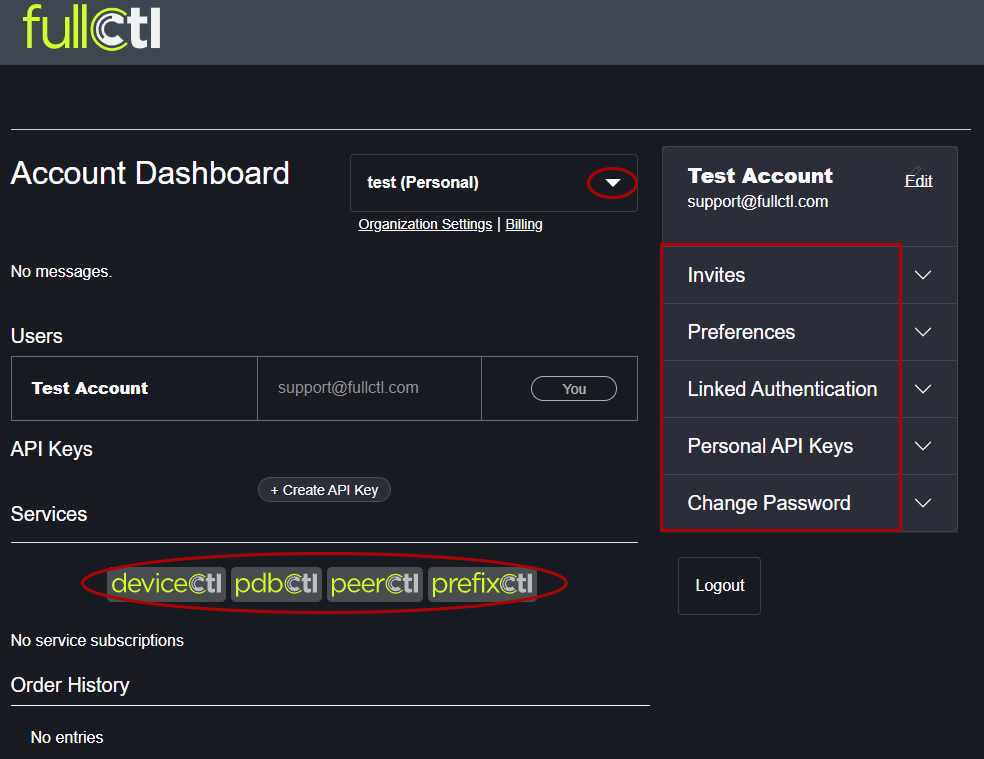
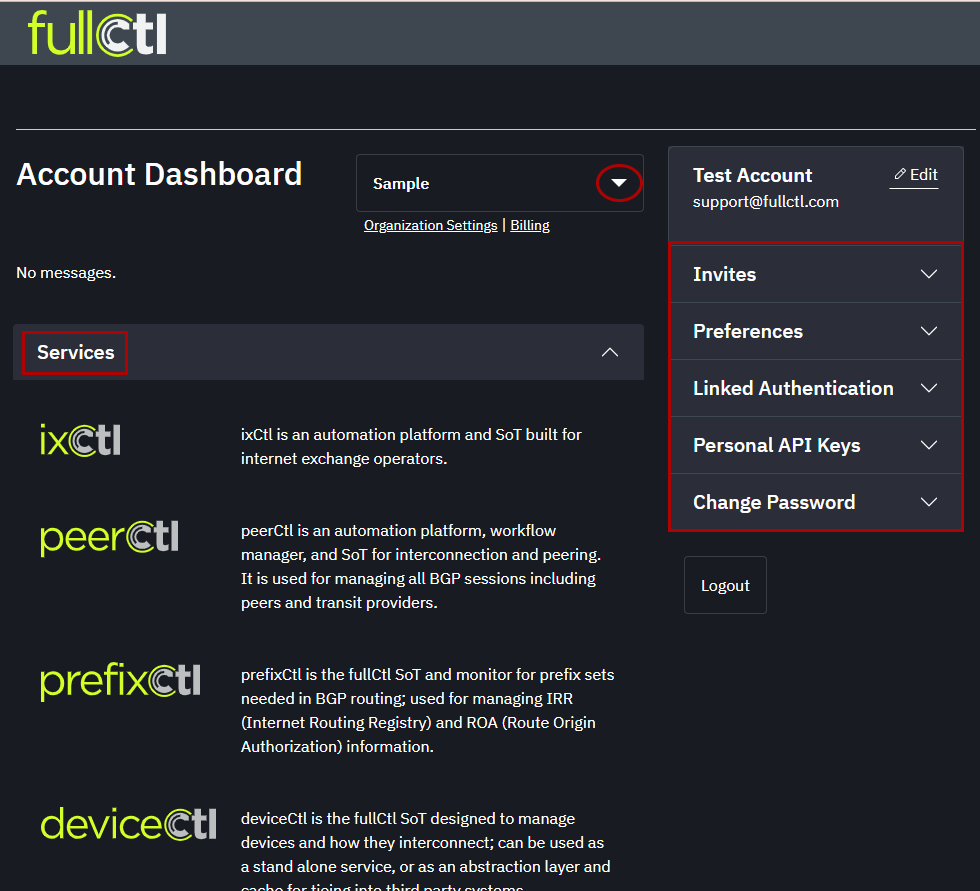
Sunbuch postlaunch updates (#41)
* Update index.md

* Update Sign-up-for-fullctl.md

* Add files via upload

* Delete accept.png

* Update Sign-up-for-fullctl.md

* Delete addorg.png

* Delete apikeypopup.png

* Delete authenticate.png

* Delete invite.png

* Delete linked.png

* Delete login2.png

* Delete neworg.png

* Delete userpermissions.png

* Delete useradded.png

* Delete roles.png

* Delete pending.png

* Delete orgapikey.png

* Update Add-Organization.md

* Update Add-Organization.md

* Update Add-Users.md

* Update LogIn-Update-Settings.md

* Update LogIn-Update-Settings.md

* Update LogIn-Update-Settings.md

* Update LogIn-Update-Settings.md

* Update Sign-up-for-fullctl.md

* Update User-Privileges.md

* Update index.md

* Delete userpermissions.PNG

* Delete addorg.PNG

* Delete accept.PNG

* Delete apikeypopup.PNG

* Delete authenticate.PNG

* Delete createorgmodal.PNG

* Delete orgapikey.PNG

* Delete pending.PNG

* Delete neworg.PNG

* Delete useradded.PNG

* Delete invite.PNG

* Delete login2.PNG

* Delete roles.PNG

* Delete linked.PNG

* Add files via upload

* Update Add-Organization.md

* Update Add-Users.md

* Update LogIn-Update-Settings.md

* Update Sign-up-for-fullctl.md

* Update User-Privileges.md

* Update index.md

* Update Components.md

* Update Components.md

diff --git a/docs/Components.md b/docs/Components.md
@@ -8,15 +8,24 @@ aaaCtl provides centralized authentication, authorization and accounting for Ful
 
 aclCtl is the FullCtl source of truth for access control list (ACL) and network policy information. It is used for managing traffic filtering and device security. aclCtl manages two components; both ACL structure (traffic filtering rules) and the application of those filters. It is expected that ACL structure will change infrequently and that the application of those policies will change more often. For example, if a new service is added to a PoP (Point of Presence) the ACL itself will not change, rather that new service will be added to comply with existing rule-sets. This allows for the automation of service turn up without human intervention.
 
+
+**DeviceCtl**
+
+DeviceCtl is a FullCtl SoT designed to manage devices and how they interconnect; can be used as a stand alone service, or as an abstraction layer and cache for tieing into third party systems. It is used for all inventory management tasks, to avoid any possible duplication or confusion.
+
 **ixCtl**
 
 ixCtl is an automation platform built for internet exchange operators. Using our member management features, import your existing connected network list from PeeringDB or enter it manually, then use ixCtl to manage MAC addresses, IP addresses, or export as an IX-F connected networks list schema. ixCtl has an open source version designed as a toolkit to enhance flexibility for Internet Exchanges. An IX can run individual components as desired while still allowing for custom, granular integrations with limitless possibilities.
 
 ixCtl takes data directly from PeeringDB and combines it with industry best practices to generate (and maintain) secure route server configurations. ixCtl automatically updates route server configurations over time as connected networks update their information. ixCtl is an excellent source of truth for wider automation efforts. When you deploy ixCtl at your IX, all of your connected networks get access to the PeerCtl dashboard to automatically update their mac addresses and as-sets directly.
 
+**pdbCtl**
+
+pdbCtl is our redundancy abstraction layer for PeeringDB data, with support for bidirectional sync.
+
 **PeerCtl**
 
-PeerCtl is an automation platform purpose built for busy peering managers. As part of the broader FullCtl IBN solution, PeerCtl is the SoT for interconnection and peering. It is used for managing all external BGP sessions with peers and transit providers.
+PeerCtl is an automation platform, workflow manager, and SoT for interconnection and peering. It is used for managing all external BGP sessions with peers and transit providers.
 
 PeerCtl takes data directly from PeeringDB, combines it with your policies, and generates the complete BGP configuration required to turn up a secure and reliable peering session. PeerCtl also provides email templates for each common communication point, along with a workflow to help you turn up new peers. Also, if the IX you’re working with uses ixCtl, you can use PeerCtl to update your mac address and as-set.
 
@@ -24,6 +33,5 @@ PeerCtl takes data directly from PeeringDB, combines it with your policies, and 
 
 PrefixCtl is the FullCtl SoT for prefix sets needed in BGP routing. It is used for managing IRR (Internet Routing Registry) and ROA (Route Origin Authorization) information. This enables third-parties to automatically (or manually) create filters that will always allow your BGP announcements. PrefixCtl also provides a reputation monitor, which notifies you any time your address space is reported for abuse (SPAM origination, etc).
 
-**DeviceCtl**
 
-DeviceCtl is a FullCtl SoT designed to manage devices and how they interconnect. DeviceCtl is leveraged for instances where Nautobot functionality falls short. Therefore, your implementation may or may not require deviceCtl. When it is present, it is used for all inventory management tasks, to avoid any possible duplication or confusion.
+

diff --git a/docs/index.md b/docs/index.md
@@ -1,6 +1,6 @@
 # Introduction to FullCtl
 
-FullCtl is a network automation and orchestration software suite focused on providing a source of truth for your network and provides a suite of tools to take actions and provide services based on that SoT.
+FullCtl is a network automation and orchestration software suite focused on providing a source of truth (SoT) for your network and provides a suite of tools to take actions and provide services based on that SoT.
 
 In order to provide functionality for a variety of networks, FullCtl is made up of a number of modules. Some of these, like aclCtl, provide functionality to other modules, and some, like ixCtl provide interfaces and automation controllers directly. It should be noted that most modules do not act directly on your infrastructure, instead being communicated with by a variety of agents deployed in your infrastructure. These agents are typically containers providing services like route servers, but can also be proxy connections allowing your systems to securely communicate with FullCtl to obtain and act on information provided by the FullCtl SoT.
 
@@ -10,12 +10,13 @@ FullCtl can take the hassle and complexity out of managing a complex infrastruct
 
 # FullCtl Components
 
-- aaaCtl - manage your users and access control to various components of FullCtl
-- aclCtl - manage custom ACLs for router configuration
-- ixCtl - manage your IXP users, configure your route servers and as112 systems
-PeerCtl - take data directly from PeeringDB, combine it with your policies and generate the complete BGP configuration required to turn up a secure and reliable peering session
-- PrefixCtl - enter your network prefixes and irr information to monitor and manage your networks
-- DeviceCtl - manage your physical infrastructure, assign ports and logical configurations, and maintain a SoT for easy configuration and monitoring
-- custom Ctl - you can integrate FullCtl’s SoT with your existing workflow or custom code through our rich API, or 20c can create custom integrations for your specific needs
+- ixCtl is an automation platform and SoT built for internet exchange operators.
+- PeerCtl is an automation platform, workflow manager, and SoT for interconnection and peering. It is used for managing all BGP sessions including peers and transit providers.
+- PrefixCtl is the FullCtl SoT and monitor for prefix sets needed in BGP routing; used for managing IRR (Internet Routing Registry) and ROA (Route Origin Authorization) information. 
+- DeviceCtl is the FullCtl SoT designed to manage devices and how they interconnect; can be used as a stand alone service, or as an abstraction layer and cache for tieing into third party systems. 
+- pdbCtl is our abstraction layer for PeeringDB data, with support for bidirectional sync.
+- aaaCtl is our platform for managing your users and accessing control to various components of FullCtl.
+- aclCtl is the FullCtl SoT for access control list (ACL) and network policy information. 
+- custom Ctl - you can integrate FullCtl’s SoT with your existing workflow or custom code through our rich API, or 20c can create custom integrations for your specific needs.
 
 Contact us: <a href="mailto: hello@fullctl.com" target="_blank">hello@fullctl.com</a>

diff --git a/docs/aaaCtl/Sign-up-for-fullctl.md b/docs/aaaCtl/Sign-up-for-fullctl.md
@@ -6,6 +6,9 @@ Go to: [account.fullctl.io](https://account.fullctl.io) and click on Register Ne
 To register, enter a user name, email, password, first name and last name. Indicate you are not a robot and click Sign Up.
    ![](img/signup.png)
 
+You will be prompted to Create an Organization. Enter the Organization name and slug. Click Create. This can serve as your personal Organization or can be your business/work-related Organization. You can be affiliated with multiple Organizations. If you want to be affiliated with an Organization that already exists on FullCtl, you must be invited by the Admin of that Organization. 
+   ![](img/createorgmodal.png)
+
 You will be prompted to confirm your email address.
    ![](img/emailconf.png)
 
@@ -21,5 +24,4 @@ You will be directed to the PeeringDB website. Make sure you are logged into the
    ![](img/authorize.png)
 
 You will be redirected to the FullCtl website. When you click on Linked Authentication option on the right side of the screen you will see PeeringDB under Linked Providers.
-
    ![](img/linked.png)

diff --git a/docs/aaaCtl/Add-Organization.md b/docs/aaaCtl/Add-Organization.md
@@ -1,11 +1,11 @@
 # Add Organization
 
-An Organization can be added using the drop-down arrow next to name then clicking on + Create Organization.
+An Organization can be added using the drop-down arrow next to name then clicking on + Create Organization. Different Organizations can subscribe to different FullCtl services.
    ![](img/addorg.png)
    
 Enter the Organization Name, Slug and click Create. 
 
    ![](img/createorgpopup.png)
    
-The new Organization will then appear next to the drop-down arrow.    
+The new Organization will then appear next to the drop-down arrow. Your personal account and Organization you entered upon account creation will appear in the drop down menu.    
    ![](img/neworg.png)

diff --git a/docs/aaaCtl/Add-Users.md b/docs/aaaCtl/Add-Users.md
@@ -3,7 +3,7 @@
 Choose the Organization you want to add users to. Your list of Organizations can be found using the drop-down arrow next to name.
    ![](img/addorg.png)
 
-Click on + Invite Users to Your Organization. 
+Click on + Invite Users to Your Organization from the options below Services.
    ![](img/invite.png)
    
 In the pop-up box, enter the email address of the person you are inviting. Click on Send Invite. 

diff --git a/docs/aaaCtl/LogIn-Update-Settings.md b/docs/aaaCtl/LogIn-Update-Settings.md
@@ -12,7 +12,6 @@ Organizational API keys can be added to an account. Click on the Create API Key 
    ![](img/orgapikey.png)
 
 Enter the Name and Email address and click Create.
-
    ![](img/apikeypopup.png)
 
 When invited to join an Organization, users receive an email with a link to accept the invitation. Pending invitations also appear in the right-side menu.
